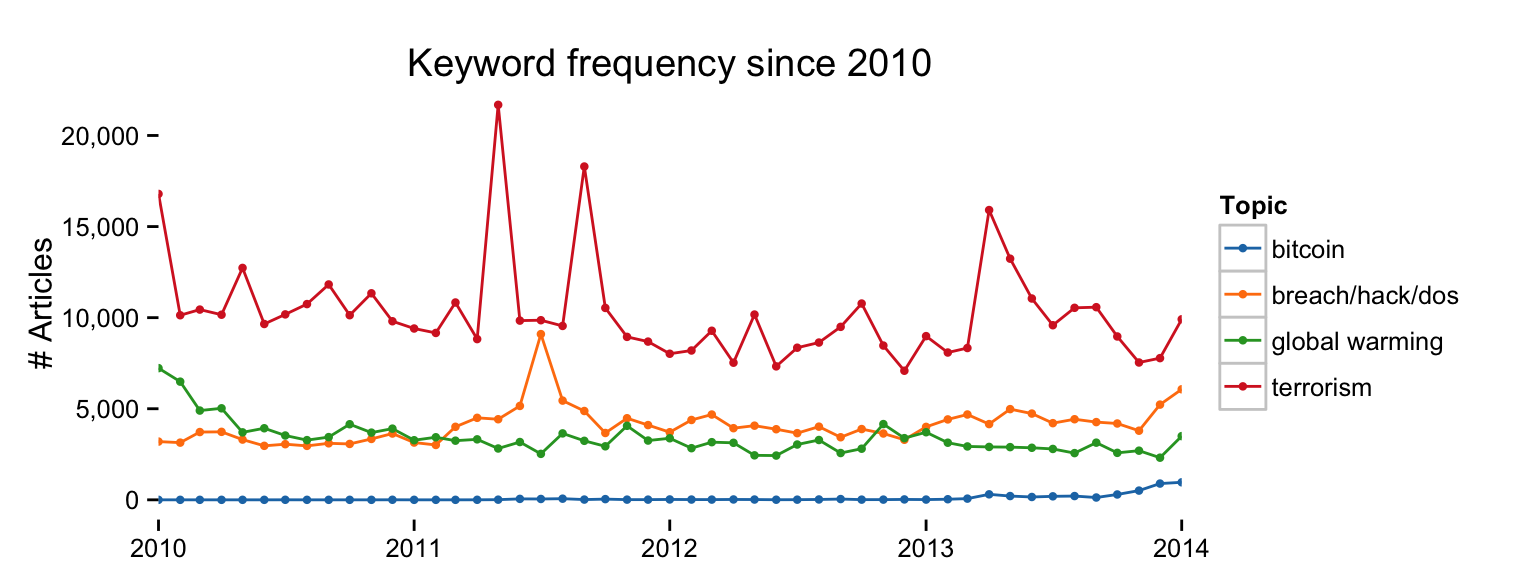
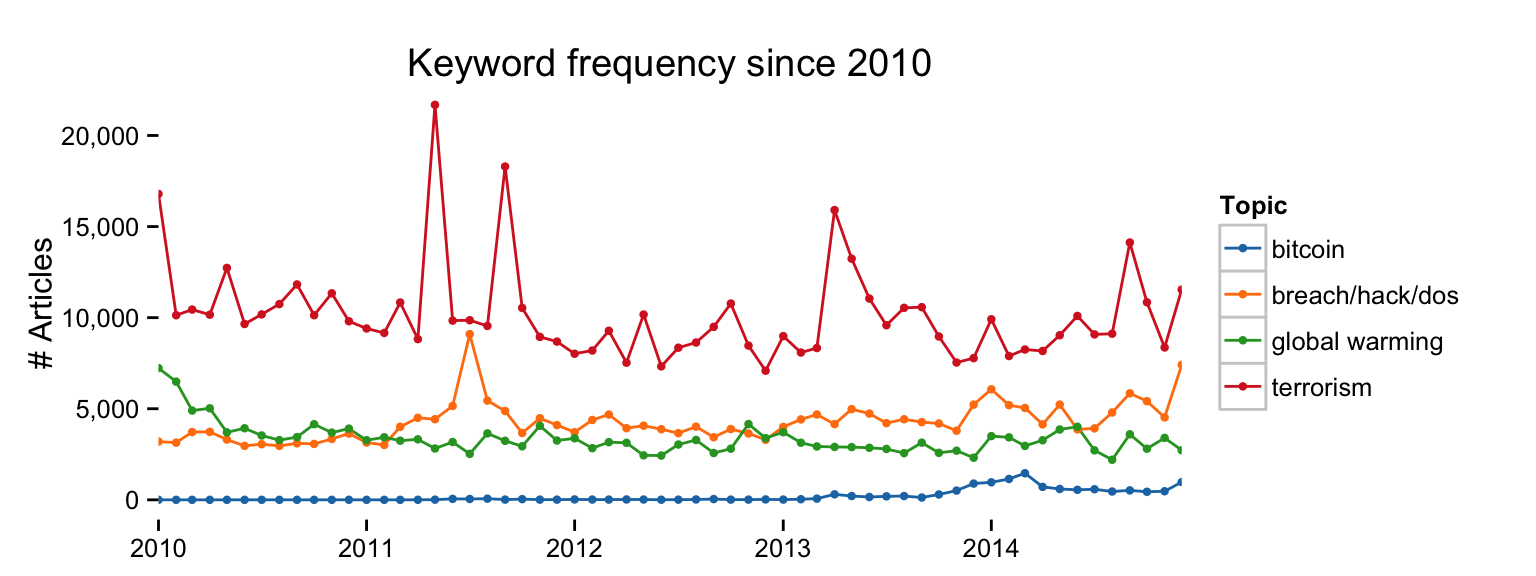
version 0.2

diff --git a/README.md b/README.md
@@ -9,6 +9,7 @@ The following data sets are included:
 ### News
 
 -   Version `0.1` released
+-   Version `0.2` released - added a `pct` column to the returned data frame (under certain conditions); made an S3 `newsfreq` class for the results; added an `autoplot` convenience method for generating quick graphs of results.
 
 ### Installation
 
@@ -25,7 +26,7 @@ library(newsfreq)
 packageVersion("newsfreq")
 ```
 
-    ## [1] '0.1'
+    ## [1] '0.2'
 
 ``` r
 library(newsfreq)
@@ -52,30 +53,37 @@ library(ggthemes)
 
 ``` r
 breach <- news_search(keywords="(data breach) OR hacking OR (denial of service)",
-                      date_from="2010-01-01", date_to="2014-01-31")
+                      date_from="2010-01-01", date_to="2014-12-31")
 head(breach)
 ```
 
     ##    date_from    date_to year month_abb month count search_date                                    search_terms
-    ## 1 2010-01-01 2010-01-31 2010       Jan    01  3197  2015-01-31 (data breach) OR hacking OR (denial of service)
-    ## 2 2010-02-01 2010-02-28 2010       Feb    02  3140  2015-01-31 (data breach) OR hacking OR (denial of service)
-    ## 3 2010-03-01 2010-03-31 2010       Mar    03  3721  2015-01-31 (data breach) OR hacking OR (denial of service)
-    ## 4 2010-04-01 2010-04-30 2010       Apr    04  3732  2015-01-31 (data breach) OR hacking OR (denial of service)
-    ## 5 2010-05-01 2010-05-31 2010       May    05  3307  2015-01-31 (data breach) OR hacking OR (denial of service)
-    ## 6 2010-06-01 2010-06-30 2010       Jun    06  2964  2015-01-31 (data breach) OR hacking OR (denial of service)
+    ## 1 2010-01-01 2010-01-31 2010       Jan    01  3197  2015-02-02 (data breach) OR hacking OR (denial of service)
+    ## 2 2010-02-01 2010-02-28 2010       Feb    02  3140  2015-02-02 (data breach) OR hacking OR (denial of service)
+    ## 3 2010-03-01 2010-03-31 2010       Mar    03  3721  2015-02-02 (data breach) OR hacking OR (denial of service)
+    ## 4 2010-04-01 2010-04-30 2010       Apr    04  3732  2015-02-02 (data breach) OR hacking OR (denial of service)
+    ## 5 2010-05-01 2010-05-31 2010       May    05  3307  2015-02-02 (data breach) OR hacking OR (denial of service)
+    ## 6 2010-06-01 2010-06-30 2010       Jun    06  2964  2015-02-02 (data breach) OR hacking OR (denial of service)
+    ##          pct
+    ## 1 0.08149791
+    ## 2 0.08004487
+    ## 3 0.09485572
+    ## 4 0.09513613
+    ## 5 0.08430203
+    ## 6 0.07555827
 
 ``` r
 breach %>%
   mutate(search_terms="breach/hack/dos") -> breach
 
 terrorism <- news_search(keywords="terrorism",
-                   date_from="2010-01-01", date_to="2014-01-31")
+                   date_from="2010-01-01", date_to="2014-12-31")
 
 warming <- news_search(keywords="global warming",
-                   date_from="2010-01-01", date_to="2014-01-31")
+                   date_from="2010-01-01", date_to="2014-12-31")
 
 bitcoin <- news_search(keywords="bitcoin",
-                       date_from="2010-01-01", date_to="2014-01-31")
+                       date_from="2010-01-01", date_to="2014-12-31")
 
 bind_rows(breach, terrorism, warming, bitcoin) %>%
   select(date_from, search_terms, count) -> combined
@@ -107,7 +115,7 @@ library(testthat)
 date()
 ```
 
-    ## [1] "Sat Jan 31 11:42:15 2015"
+    ## [1] "Mon Feb  2 06:46:05 2015"
 
 ``` r
 test_dir("tests/")
